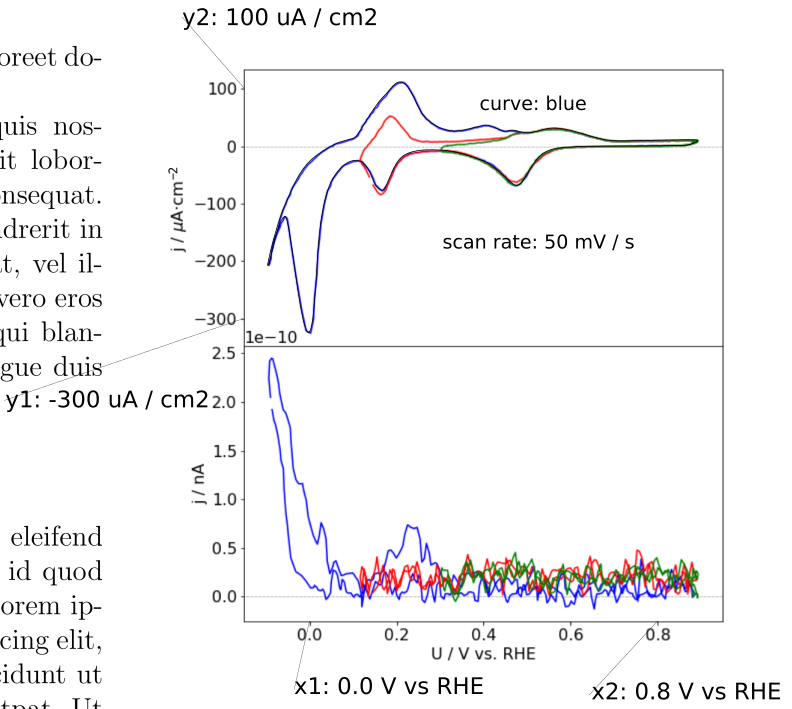
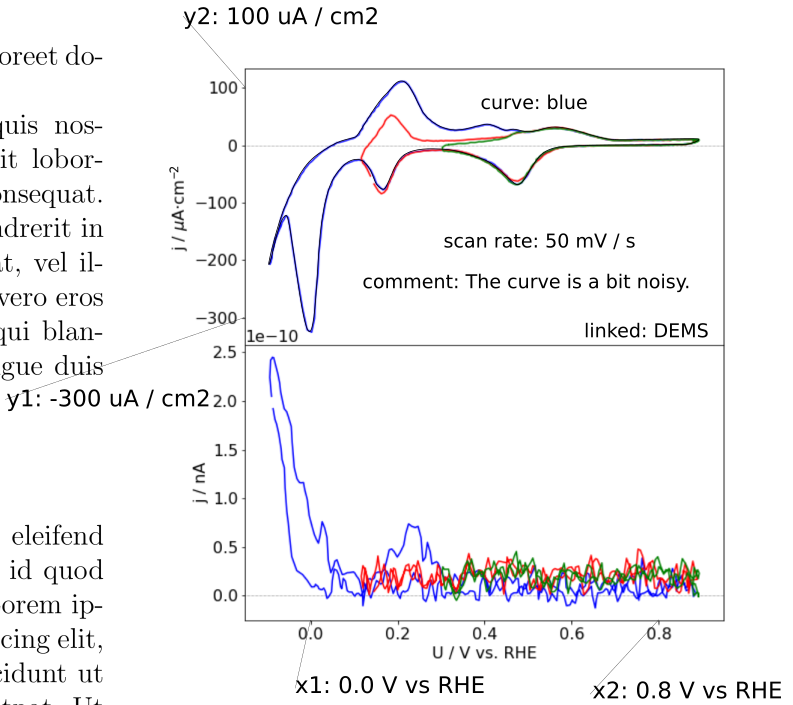
Added docu related to #112. Also addresses some typos.

diff --git a/doc/workflow.md b/doc/workflow.md
@@ -10,7 +10,7 @@ To follow the step by step tutorial, some steps require an installation of the r
 
 Furthermore, the manipulation of SVG files is done with [Inkscape](https://inkscape.org/) (tested with V. 0.92).
 
-## Step 1: Prepare PDF and BIB file
+## Step 1: Prepare PDF and BIB files
 
 **1: Create a new directory:**
 
@@ -80,7 +80,7 @@ The filenames are of the form:
 
 **1: Select an svg file with a plot to be digitized**
 
-For this example we use inkscape to digitize some data in plot 2a in the PDF, which is is located on page two of the manuscript (filename containing `_p1`). The plot contains three curves, which can be identified by their colors. Preferably each digitized curve should be placed in a single svg file. Therefore, create a copy of the SVG file of page two (`mustermann_2021_svgdigitizer_1_p1.svg`) and rename it to`mustermann_2021_svgdigitizer_1_p1_2b_blue.svg`, to indicate that this files contains the digitized curve of the blue curve in Figure 2a on page 2. 
+For this example we use inkscape to digitize some data in plot 2a in the PDF, which is is located on page two of the manuscript (filename containing `_p1`). The plot contains three curves, which can be identified by their colors. Preferably each digitized curve should be placed in a single svg file. Therefore, create a copy of the SVG file of page two (`mustermann_2021_svgdigitizer_1_p1.svg`) and rename it to`mustermann_2021_svgdigitizer_1_p1_f2a_blue.svg`. Here, (`_f2ba`) indicates that the digitized curve is in Fig. 2b  and that the curve is blue ( `_blue`) .  The latter identifier will later also be included in the SVG file.
 
  **2: Mark axis positions and labels**
 
@@ -128,7 +128,9 @@ When all axes have been marked the plot looks like the following:
 
 ![inkscape_smoothed_path_curve](files/images/inkscape_smoothed_path_curve.png)
 
-7. Add a text field to the plot containing the scan rate, with which the data was acquired. This is not necessarily given in the plot or figure description and might have to extracted from the text of the manuscript: `scan rate: 50 mV / s`.
+7. Add a text field to the plot containing the scan rate, with which the data was acquired. This value is not necessarily given in the plot or figure description and might have to be extracted from the text of the manuscript. Here `scan rate: 50 mV / s`.
+8. Feel free to add a comment (full sentence) to the plot, which will later be included in the metadata file and will be printed on the website. For example, `comment: The curve is a bit noisy.` 
+7. Add a text field highlighting any additional measurements which were acquired simultaneously with the digitized curve and are shown in the same figure. In the example, the bottom plot shows DEMS data. This can be indicated by `linked: DEMS`. The field can contain multiple types of measurements if applicable. Also use acronyms commonly used in the community.
 
 The final file should look like this:
 
@@ -136,7 +138,9 @@ The final file should look like this:
 
 ## Step 4: Create a metadata file for each digitized curve
 
-Create a YAML file with the same name than the SVG file: `mustermann_2021_svgdigitizer_1_p0_2b_blue.yaml`
+Create a YAML file with the same name than the SVG file: `mustermann_2021_svgdigitizer_1_p0_f2b_blue.yaml`
+
+
 
 The general structure of the yaml file for the website is provided at [echemdb/electrochemistry-metadata-schema](https://github.com/echemdb/electrochemistry-metadata-schema/blob/main/examples/Author_YYYY_FirstTitleWord_Page_fignr_identifier.yaml)
 
